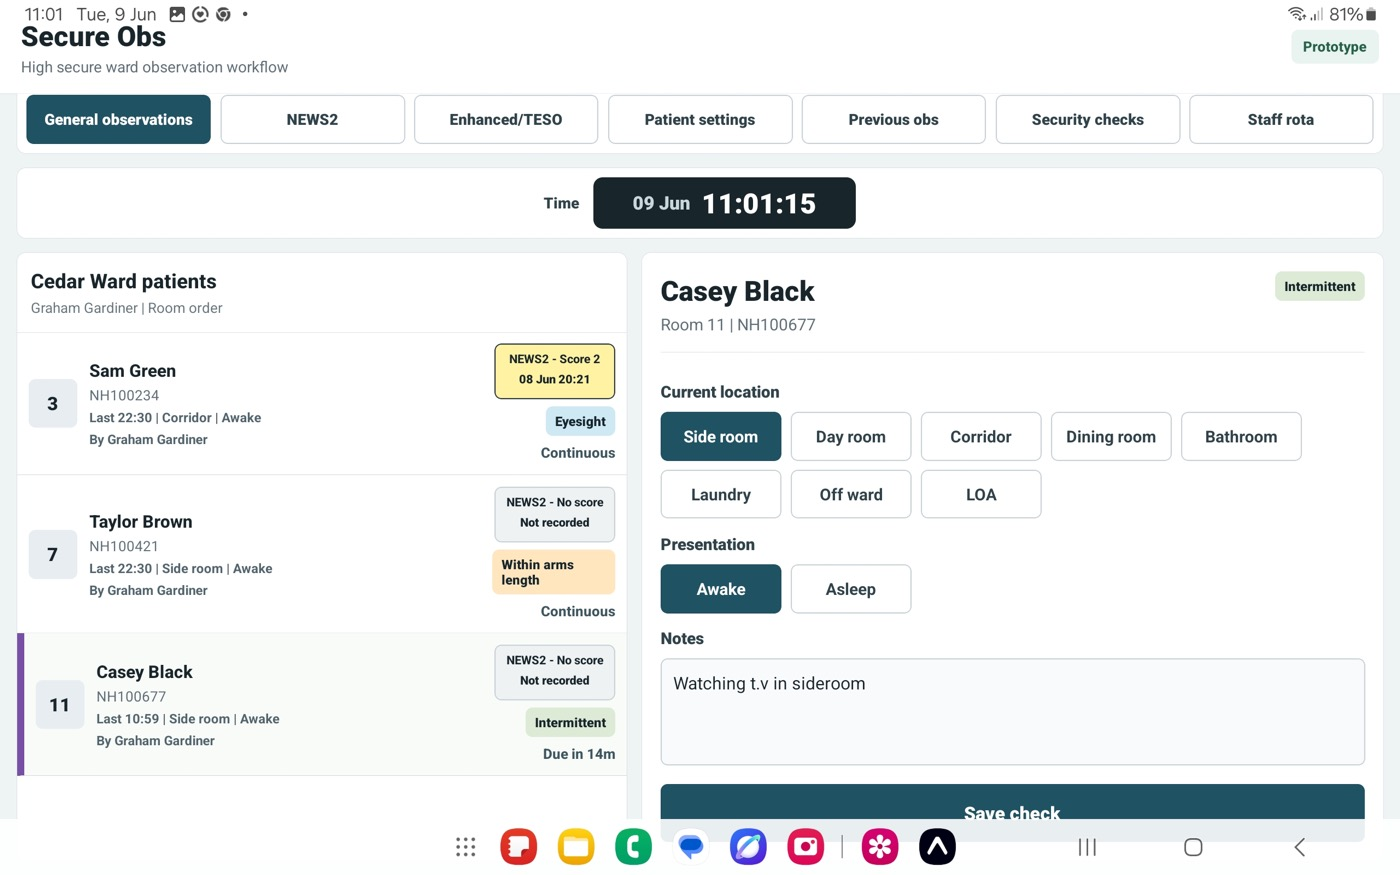
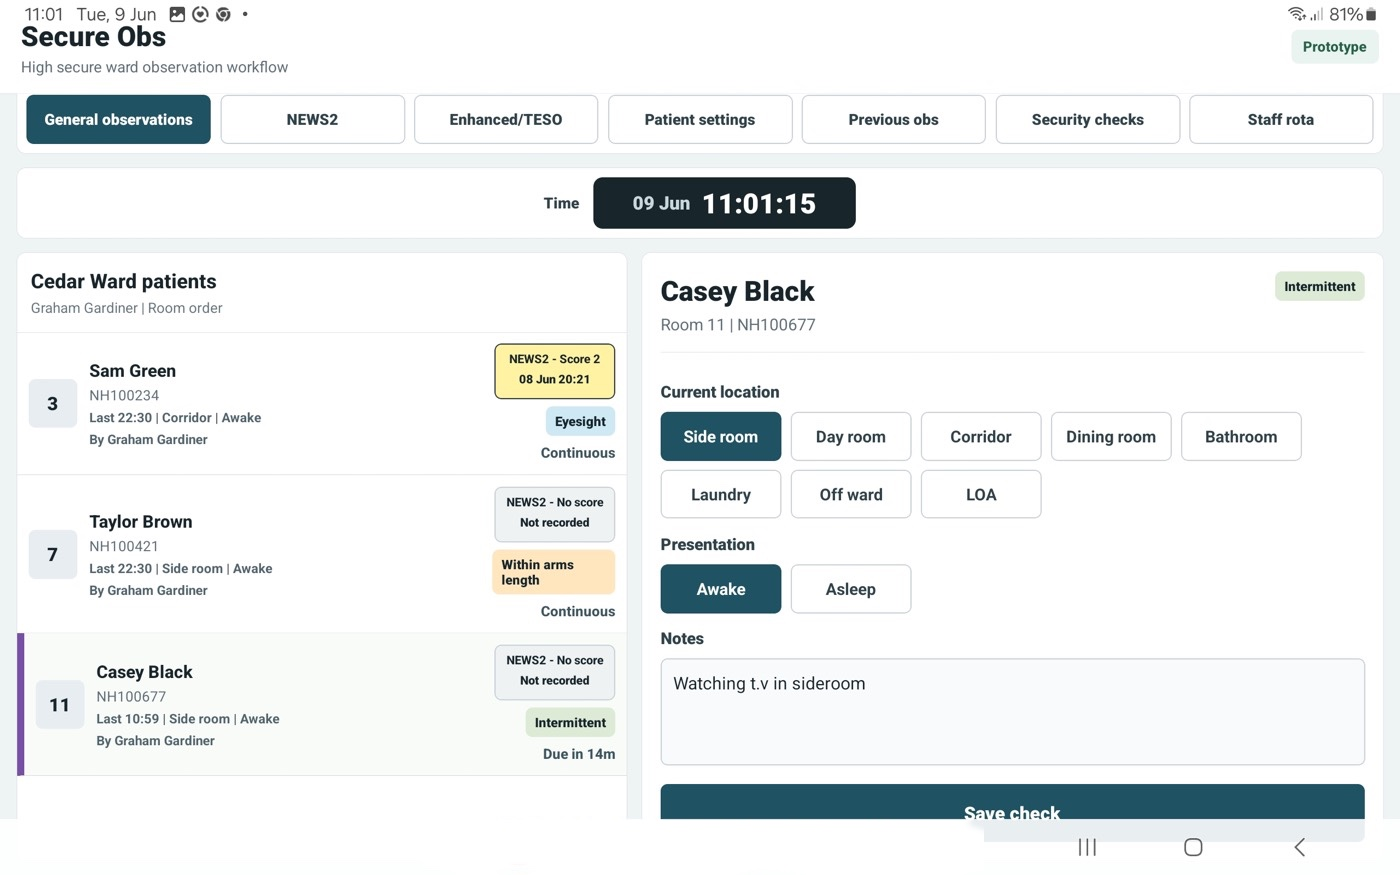
Add SecureObs app screenshots to website and text2

Changed region(s): [[0.3379, 0.9257, 0.7064, 0.9874]]

diff --git a/website/index.html b/website/index.html
@@ -160,7 +160,7 @@
             />
             <div>
               <h3>Patient Observation</h3>
-              <p>Observation level, seclusion status, TESO ratios, and reasons for enhanced observation.</p>
+              <p>Record general observations, Recording where the patient is located andand notes needed. Recording an observation resets the observation timer so staff can see when the next check is due.</p>
             </div>
           </article>
           <article class="screenshot-card">
